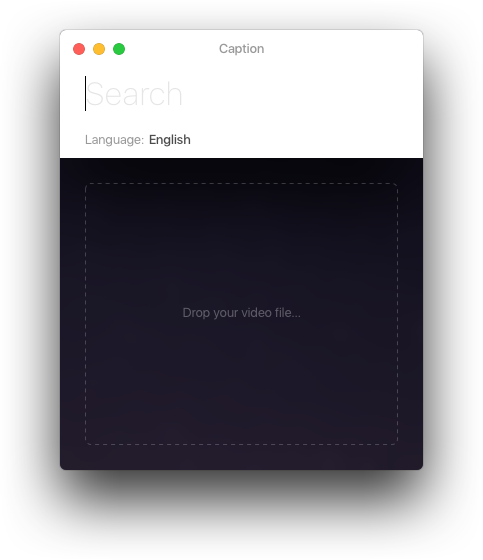
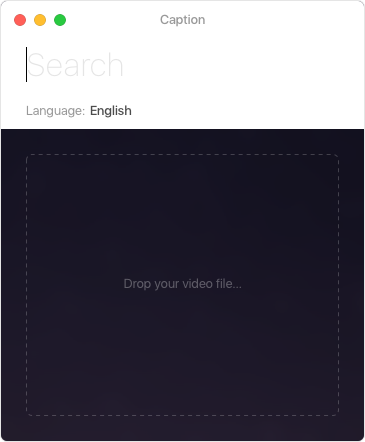
Layout with Flexbox + Add header

diff --git a/pages/index.html b/pages/index.html
@@ -2,13 +2,18 @@
 {% block content %}
 
 <main id="wrapper">
-	<section class="half app">
-		<div class="inner">
-			<div class="img"></div>
+	<header>
+		Caption is made with love by <a href="https://twitter.com/gielcobben">@gielcobben</a>.
+		<div class="social">
+			<a href="https://twitter.com/share" class="twitter-share-button" data-text="Caption is a free and open source app where you can download subtitles. http://getcaption.co/ by @gielcobben" data-url="false" data-show-count="false">Tweet</a>
+			<iframe src="https://www.facebook.com/plugins/like.php?href=http%3A%2F%2Fgetcaption.co%2F&width=450&layout=standard&action=like&size=small&show_faces=false&share=true&height=35" scrolling="no" frameborder="0" allowTransparency="true" class="facebook"></iframe>
 		</div>
-	</section>
-	<section class="half">
-		<div class="inner">
+	</header>
+	<div class="content">
+		<section class="half app">
+			<div class="img"></div>
+		</section>
+		<section class="half">
 			<h1>Caption</h1>
 			<p>Downloading subtitles made easy.</p>
 			<ul>
@@ -22,8 +27,8 @@
 				<a href="https://github.com/gielcobben/Caption/releases" target="_blank" class="button"> Download Caption</a>
 				<!-- <small>macOS 10.10 or above required.</small> -->
 			</div>
-		</div>
-	</section>
+		</section>
+	</div>
 </main>
 
 {% endblock %}

diff --git a/assets/css/style.scss b/assets/css/style.scss
@@ -29,6 +29,8 @@ p {
 }
 
 a {
+	font-weight: 400;
+	color: #fff;
 	text-decoration: none;
 	transition: all .2s ease;
 
@@ -58,32 +60,27 @@ li {
 }
 
 #wrapper {
+	position: relative;
 	margin: 0 auto;
 	width: 100vw;
 	height: 100vh;
-	max-width: 1000px;
+	max-width: 900px;
 }
 
-.half {
-	position: relative;
-	width: 50%;
-	height: 100%;
-	float: left;
-	text-align: center;
-
-	&.app {
-		.inner {
-			transform: translateY(-45%);
-		}
-	}
-}
-
-.inner {
+header {
 	position: absolute;
-	top: 50%;
-	left: 0;
+	padding: 32px 0;
 	width: 100%;
-	transform: translateY(-50%);
+	font-weight: 300;
+	border-bottom: 1px solid rgba(255, 255, 255, .3);
+}
+
+.content {
+	height: 100%;
+	display: flex;
+	align-items: center;
+	justify-content: space-between;
+	text-align: center;
 }
 
 .download {
@@ -98,8 +95,21 @@ li {
 }
 
 .img {
-	width: 483px;
-	height: 560px;
+	width: 365px;
+	height: 422px;
 	background: url('/assets/static/images/app@2x.png');
-	background-size: 483px 560px;
+	background-size: 365px 422px;
+	margin: 0 auto;
+	box-shadow: 0 30px 60px 0 rgba(0, 0, 0, .5);
+}
+
+.social {
+	float: right;
+}
+
+.facebook {
+	border:none;
+	overflow:hidden;
+	width: 96px;
+	height: 20px;
 }

diff --git a/templates/base.html b/templates/base.html
@@ -64,6 +64,7 @@
 	{% endblock %}
 
 	{% block scripts %}
+	<script async src="//platform.twitter.com/widgets.js" charset="utf-8"></script>
 	<script src="//ajax.googleapis.com/ajax/libs/jquery/2.1.1/jquery.min.js"></script>
 	<script src="/assets/scripts/main.js"></script>
 	{% endblock %}
